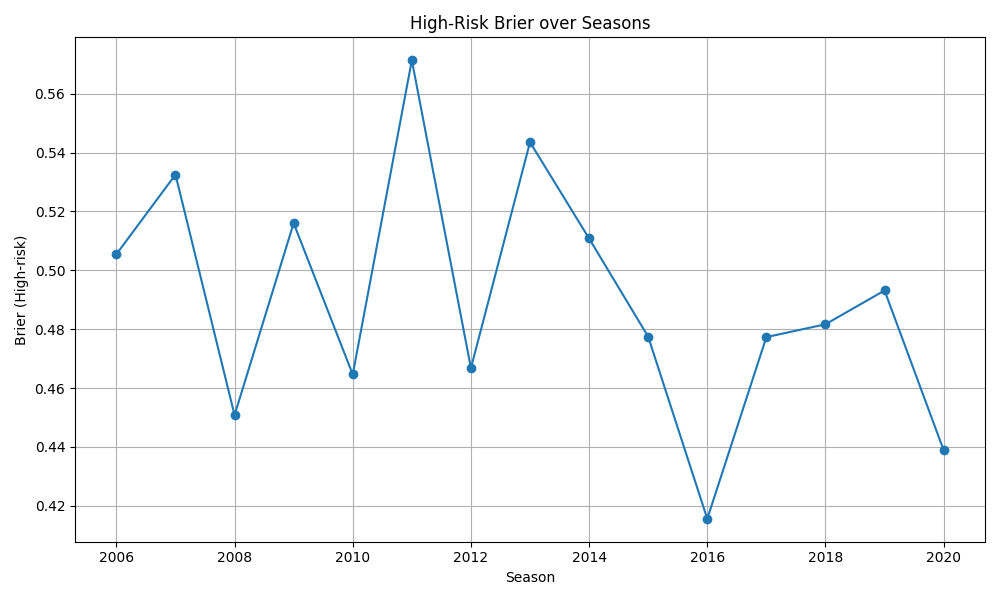
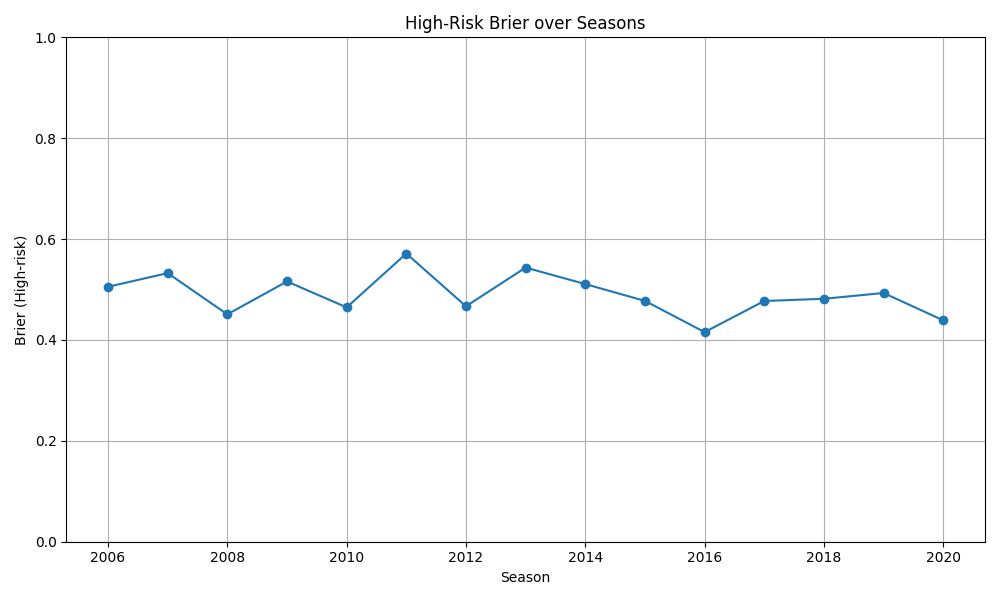
Fixed the Y axis range in plotted diagrams

diff --git a/advanced_evaluation.py b/advanced_evaluation.py
@@ -386,7 +386,7 @@ def plot_rolling_multi_step(rolling_df):
     if rolling_df.empty:
         return
     plt.figure(figsize=(12, 6))
-    for h in [1,2,3]:
+    for h in [1, 2, 3]:
         data = rolling_df[rolling_df['horizon'] == h]
         plt.plot(data['test_season'], data['log_loss'], marker='o', label=f'Horizon {h}')
     plt.xlabel('Test Season')
@@ -394,6 +394,7 @@ def plot_rolling_multi_step(rolling_df):
     plt.title('Rolling Multi-Step Evaluation (log-loss)')
     plt.legend()
     plt.grid(True)
+    plt.ylim(0, 2)
     plt.tight_layout()
     plt.savefig(os.path.join(FIGURES_DIR, 'rolling_multi_step_logloss.png'))
     plt.close()
@@ -439,6 +440,7 @@ def plot_ensemble_seasonal(ensemble_df, all_df, window_df):
     plt.title('Seasonal Metrics: All vs Window vs Ensemble')
     plt.legend()
     plt.grid(True)
+    plt.ylim(0, 2)
     plt.tight_layout()
     plt.savefig(os.path.join(FIGURES_DIR, 'seasonal_comparison_logloss.png'))
     plt.close()
@@ -464,6 +466,7 @@ def plot_high_risk_brier(hr_df):
     plt.ylabel('Brier (High-risk)')
     plt.title('High-Risk Brier over Seasons')
     plt.grid(True)
+    plt.ylim(0, 1)
     plt.tight_layout()
     plt.savefig(os.path.join(FIGURES_DIR, 'high_risk_brier.png'))
     plt.close()
